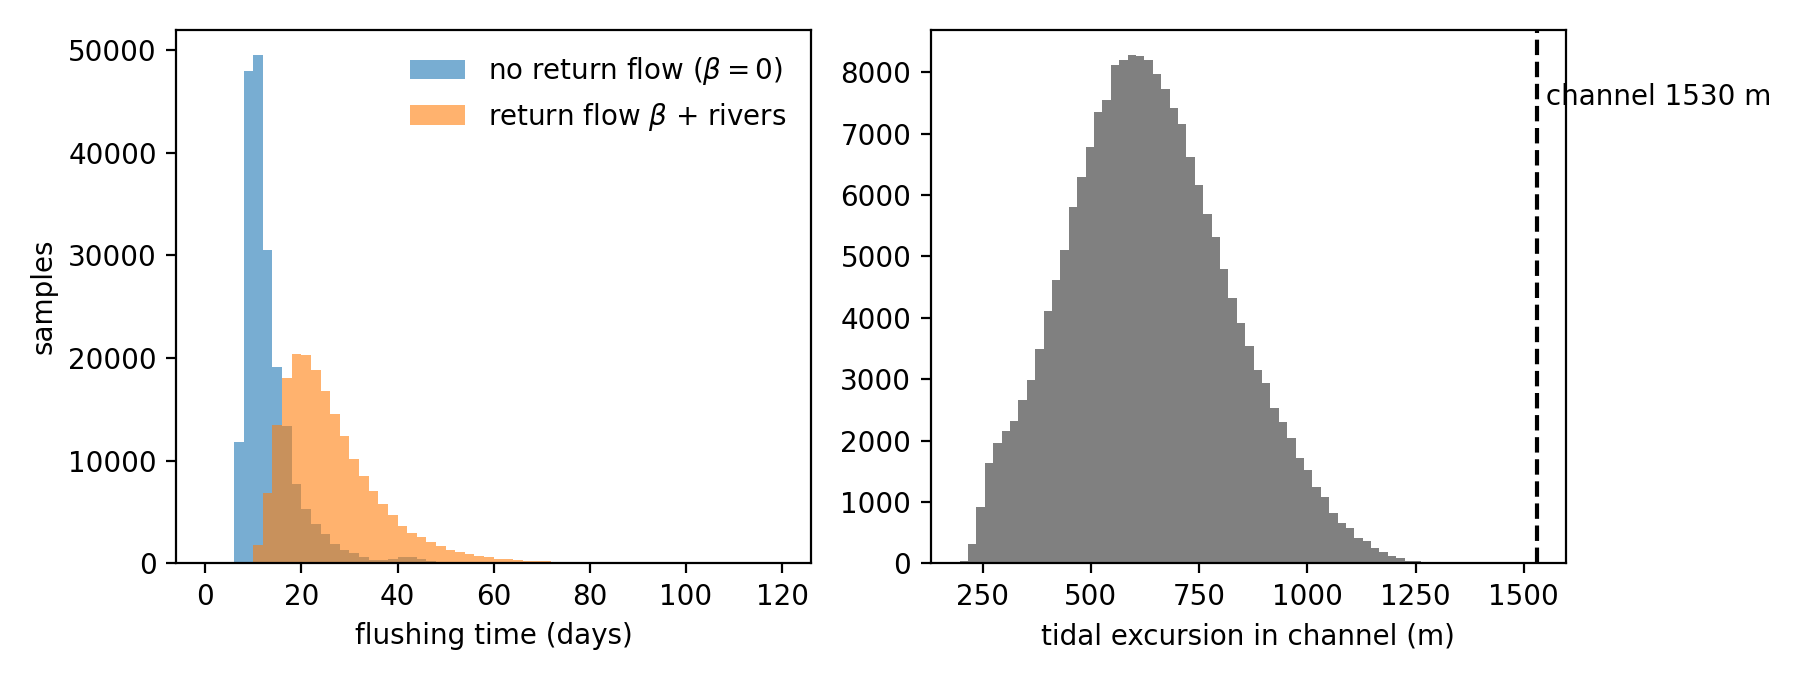
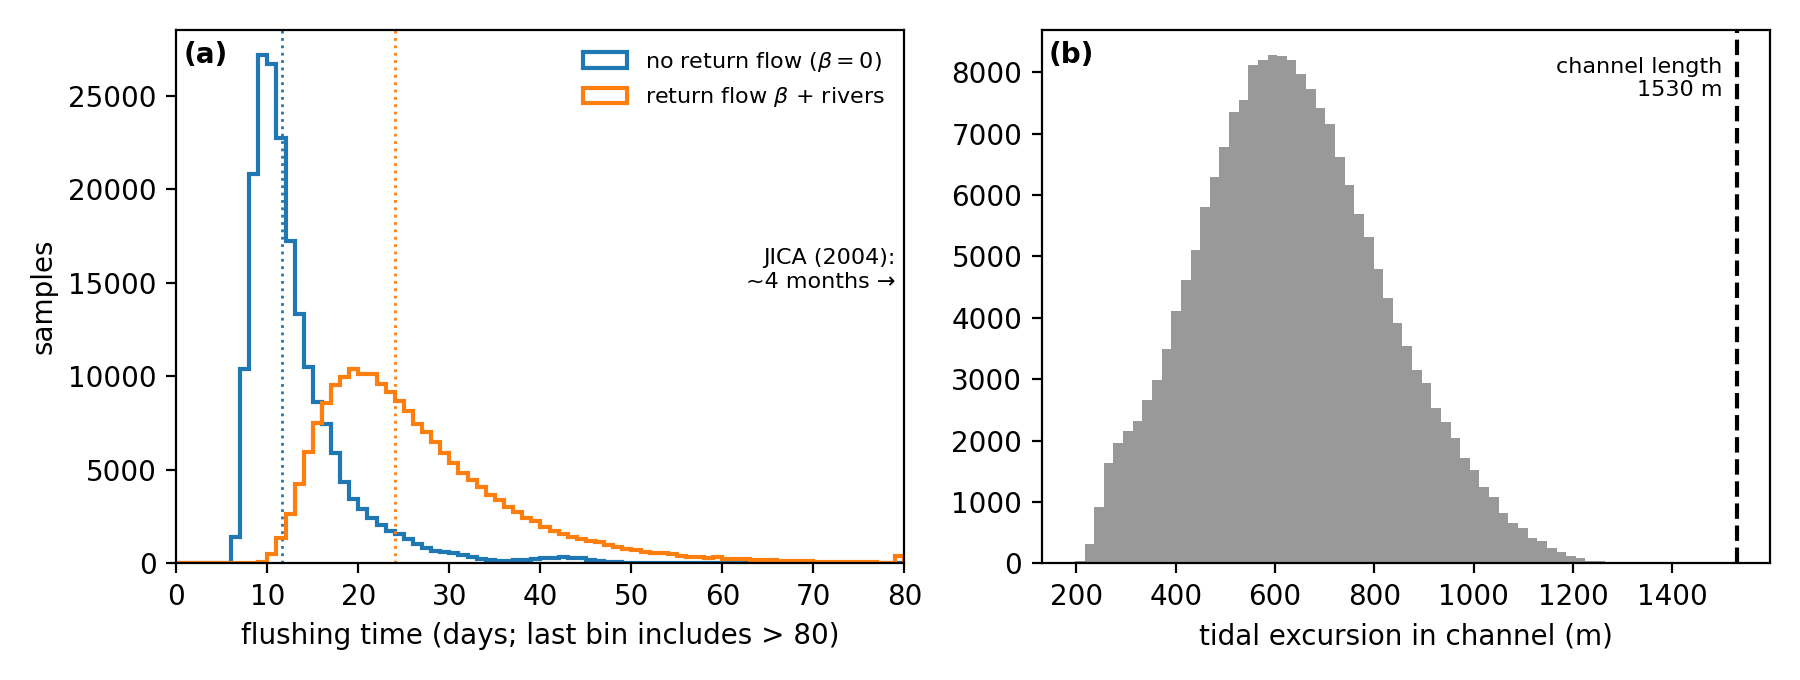
Figura del prisma lista para el artículo; revisión de figuras en figuras.md
Claude-Session: https://claude.ai/code/session_011ZQy6j6faxb4dHyc5rKgZH

diff --git a/scripts/prisma_marea.py b/scripts/prisma_marea.py
@@ -123,15 +123,18 @@ def main():
     matplotlib.use("Agg")
     import matplotlib.pyplot as plt
     fig, ax = plt.subplots(1, 2, figsize=(9, 3.4))
-    bins = np.linspace(0, 120, 61)
-    ax[0].hist(mc["Tf_dias"], bins=bins, alpha=.6, label=r"no return flow ($\beta=0$)")
-    ax[0].hist(mc["Tr_dias"], bins=bins, alpha=.6, label=r"return flow $\beta$ + rivers")
-    ax[0].set_xlabel("flushing time (days)"); ax[0].set_ylabel("samples")
-    ax[0].legend(frameon=False)
-    ax[1].hist(mc["excursion_m"], bins=60, color="0.5")
-    ax[1].axvline(L_CANAL, color="k", ls="--"); ax[1].text(L_CANAL, ax[1].get_ylim()[1]*.9,
-                                                            " channel 1530 m", va="top")
+    bins = np.linspace(0, 80, 81)
+    for k, lab, c in [("Tf_dias", r"no return flow ($\beta=0$)", "C0"), ("Tr_dias", r"return flow $\beta$ + rivers", "C1")]:
+        ax[0].hist(np.clip(mc[k], 0, 80), bins=bins, histtype="step", lw=1.5, color=c, label=lab)
+        ax[0].axvline(np.median(mc[k]), color=c, ls=":", lw=1)
+    ax[0].text(79, 0.55, "JICA (2004):\n~4 months \u2192", transform=ax[0].get_xaxis_transform(), ha="right", va="center", fontsize=8)
+    ax[0].set_xlim(0, 80); ax[0].set_xlabel("flushing time (days; last bin includes > 80)"); ax[0].set_ylabel("samples")
+    ax[0].legend(frameon=False, fontsize=8)
+    ax[1].hist(mc["excursion_m"], bins=60, color="0.6")
+    ax[1].axvline(L_CANAL, color="k", ls="--")
+    ax[1].text(L_CANAL - 30, ax[1].get_ylim()[1] * .95, f"channel length\n{L_CANAL:.0f} m", va="top", ha="right", fontsize=8)
     ax[1].set_xlabel("tidal excursion in channel (m)")
+    for a_, l_ in zip(ax, "ab"): a_.text(0.01, 0.98, f"({l_})", transform=a_.transAxes, va="top", fontweight="bold")
     fig.tight_layout(); fig.savefig(out / "prisma_marea.png", dpi=200)
     print(f"guardado: {out/'prisma_marea.csv'}, {out/'prisma_marea.png'}")
 

diff --git a/docs/articulo/figuras.md b/docs/articulo/figuras.md
@@ -20,3 +20,15 @@ Las de `docs/figuras/` son de trabajo (en español) y no van al artículo tal cu
 | S2 | Suplementario: curva de la edad (equilibrio) en la corrida de 1 año | `resumen.npz` de `runs/largo` | corriendo |
 
 Convenciones: UTM 17N en metros; paleta y estilo comunes (se fijarán en un único `scripts/figuras_articulo.py` cuando haya resultados del conjunto).
+
+## Revisión 21-oct-2026 (qué falta en cada figura antes de pasarla al artículo)
+
+- **Todas:** pasar al inglés; quitar el "1e6" de los ejes (km o metros completos); letras de panel (a), (b)…; etiqueta y unidades en cada barra de color; mismo sistema de coordenadas (UTM 17N) en todas las figuras de mapa; `scripts/figuras_articulo.py` con estilo común.
+- **4 prisma:** ✅ lista (inglés, histogramas en escalón, medianas, referencia JICA, etiqueta del canal dentro del panel).
+- **Mapas de batimetría (2):** la escala satura en 15–20 m y el exterior se ve como un bloque uniforme; usar escala 0–15 m con el exterior aparte o en escala logarítmica. Explicar el rectángulo rojo (canal dragado) en la leyenda; escribir α en vez de "alfa".
+- **Diferencia 1887 − 1879:** fuera de la bahía se ven las facetas triangulares de la interpolación (sondeos dispersos), y en las orillas de Atarés y los muelles hay franjas rojo/azul que vienen de pendiente fuerte más error de georreferencia (RMS 18 m), no de cambio real. Enmascarar donde no haya sondeos de las dos ediciones a < ~100 m, o mostrar solo pares de sondeos cercanos.
+- **Malla (3):** colorear la batimetría y marcar la zona de esponja (1 km desde el borde abierto); añadir un recuadro con la resolución del canal.
+- **Zonas (→ 1):** el mapa final debe llevar ríos (OSM), focos de vertido, recuadro de Cuba, escala y norte. Las líneas grises son triángulos entre dos zonas (cosmético).
+- **Marea FES/EOT20 (10):** solo amplitudes; añadir fases o, mejor, la diferencia entre las dos predicciones de nivel en un mes (RMS en cm), que es la cifra que importa.
+- **S0 primeras corridas:** queda superada. Sustituir por S2 (curva de 1 año, medias diarias, con la escala "sin renovación"). La etiqueta diagonal se sale del eje y el mapa no tiene costa ni escala.
+- **Controles de sondeos (suplementarios):** el de 1889 está en píxeles de la imagen; pasarlo a coordenadas o quitar los ejes. El de 1879/1887 está en lon/lat; hay cruces de 1887 fuera del borde de la imagen (la edición de 1898 cubre más al oeste), y conviene decirlo en el pie.
